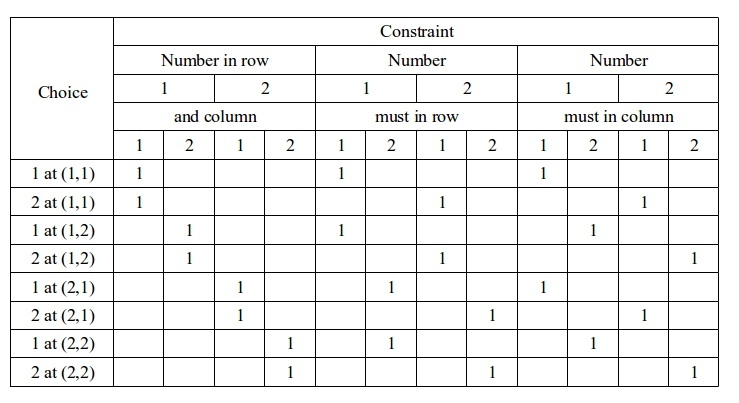
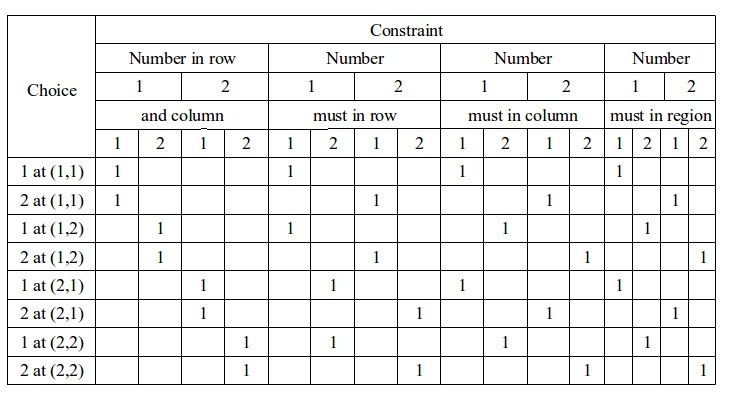
update

Changed region(s): [[0.0, 0.0298, 0.9648, 0.9826]]

diff --git a/public_html/Algorithms/Theory of Algorithms/dancing-links.html b/public_html/Algorithms/Theory of Algorithms/dancing-links.html
@@ -4,7 +4,7 @@
 <html xmlns="http://www.w3.org/1999/xhtml" lang="en" xml:lang="en">
 <head>
 <title>Knuth's Algorithm X and Dancing Links</title>
-<!-- 2014-12-18 Thu 22:10 -->
+<!-- 2014-12-19 Fri 20:45 -->
 <meta  http-equiv="Content-Type" content="text/html;charset=utf-8" />
 <meta  name="generator" content="Org-mode" />
 <meta  name="author" content="Shi Shougang" />
@@ -241,7 +241,33 @@ x.right.left &#8592; x;
 <h3 id="sec-3-1">Sudoku</h3>
 <div class="outline-text-3" id="text-3-1">
 <p>
-以最简单的2*2为例,
+需要创建一个Sudoku的矩阵才能把这个问题转换成Exact Cover问题,我们需要构造出行和列分别表示什么.
+</p>
+
+<p>
+<b>列</b> 表示这个谜题的限制,一共有4个:
+</p>
+<ol class="org-ol">
+<li>位置限制:一格仅有一个数.
+</li>
+<li>列限制:在列中每个数仅出现一次.
+</li>
+<li>行限制:在行中每个数仅出现一次.
+</li>
+<li>区域限制:每个区域每个数仅出现一次.
+</li>
+</ol>
+
+<p>
+所以列的大小是 size<sup>2</sup>*4 (size是Sudoku的总行数或总列数)
+</p>
+
+<p>
+<b>行</b> 表示每个数放入每格中.大小是 size<sup>3</sup>.
+</p>
+
+<p>
+以最简单的2*2为例,并且把格(1,1)和(1,2)归为区域1.
 </p>
 
 
@@ -250,20 +276,33 @@ x.right.left &#8592; x;
 </p>
 </div>
 
+<p>
+利用Algorithm X解出其中一个解为:
+<img src="./files/sudoku-2-2-solution.jpeg" alt="sudoku-2-2-solution.jpeg" />
+</p>
 
-<div class="figure">
-<p><img src="./files/sudoku-2-2-solution.jpeg" alt="sudoku-2-2-solution.jpeg" />
+<p>
+关于更多<a href="http://garethrees.org/2007/06/10/zendoku-generation/#section-5"> 难度划分</a> 和 <a href="http://www.sadmansoftware.com/sudoku/solvingtechniques.htm">策略</a>.
 </p>
 </div>
 </div>
-</div>
-
-
 <div id="outline-container-sec-3-2" class="outline-3">
 <h3 id="sec-3-2">Polyonimo</h3>
 <div class="outline-text-3" id="text-3-2">
 <p>
-[[./files/
+如上同样创建一个Polyonimo的矩阵.
+</p>
+
+<ul class="org-ul">
+<li><b>列</b> 表示每个格子.
+</li>
+<li><b>行</b> 表示每个多边形放入每个格子.
+</li>
+</ul>
+
+<p>
+如下的问题和解答:
+<img src="./files/polyonimo.jpeg" alt="polyonimo.jpeg" />
 </p>
 </div>
 </div>
@@ -271,7 +310,7 @@ x.right.left &#8592; x;
 </div>
 <div id="postamble" class="status">
 <p class="author">Author: Shi Shougang</p>
-<p class="date">Created: 2014-12-18 Thu 22:10</p>
+<p class="date">Created: 2014-12-19 Fri 20:45</p>
 <p class="creator"><a href="http://www.gnu.org/software/emacs/">Emacs</a> 24.3.1 (<a href="http://orgmode.org">Org</a> mode 8.2.10)</p>
 <p class="validation"><a href="http://validator.w3.org/check?uri=referer">Validate</a></p>
 </div>

diff --git a/public_html/Embedded-System/kernel/FS.html b/public_html/Embedded-System/kernel/FS.html
@@ -4,7 +4,7 @@
 <html xmlns="http://www.w3.org/1999/xhtml" lang="en" xml:lang="en">
 <head>
 <title>FileSystem Things</title>
-<!-- 2014-12-18 Thu 22:10 -->
+<!-- 2014-12-19 Fri 20:45 -->
 <meta  http-equiv="Content-Type" content="text/html;charset=utf-8" />
 <meta  name="generator" content="Org-mode" />
 <meta  name="author" content="Shi Shougang" />
@@ -436,7 +436,7 @@ module_exit(seq_test_exit);
 </div>
 <div id="postamble" class="status">
 <p class="author">Author: Shi Shougang</p>
-<p class="date">Created: 2014-12-18 Thu 22:10</p>
+<p class="date">Created: 2014-12-19 Fri 20:45</p>
 <p class="creator"><a href="http://www.gnu.org/software/emacs/">Emacs</a> 24.3.1 (<a href="http://orgmode.org">Org</a> mode 8.2.10)</p>
 <p class="validation"><a href="http://validator.w3.org/check?uri=referer">Validate</a></p>
 </div>

diff --git a/public_html/index.html b/public_html/index.html
@@ -4,7 +4,7 @@
 <html xmlns="http://www.w3.org/1999/xhtml" lang="en" xml:lang="en">
 <head>
 <title>index</title>
-<!-- 2014-12-18 Thu 22:10 -->
+<!-- 2014-12-19 Fri 20:45 -->
 <meta  http-equiv="Content-Type" content="text/html;charset=utf-8" />
 <meta  name="generator" content="Org-mode" />
 <meta  name="author" content="Shi Shougang" />
@@ -1238,7 +1238,7 @@ for the JavaScript code in this tag.
 </div>
 <div id="postamble" class="status">
 <p class="author">Author: Shi Shougang</p>
-<p class="date">Created: 2014-12-18 Thu 22:10</p>
+<p class="date">Created: 2014-12-19 Fri 20:45</p>
 <p class="creator"><a href="http://www.gnu.org/software/emacs/">Emacs</a> 24.3.1 (<a href="http://orgmode.org">Org</a> mode 8.2.10)</p>
 <p class="validation"><a href="http://validator.w3.org/check?uri=referer">Validate</a></p>
 </div>
